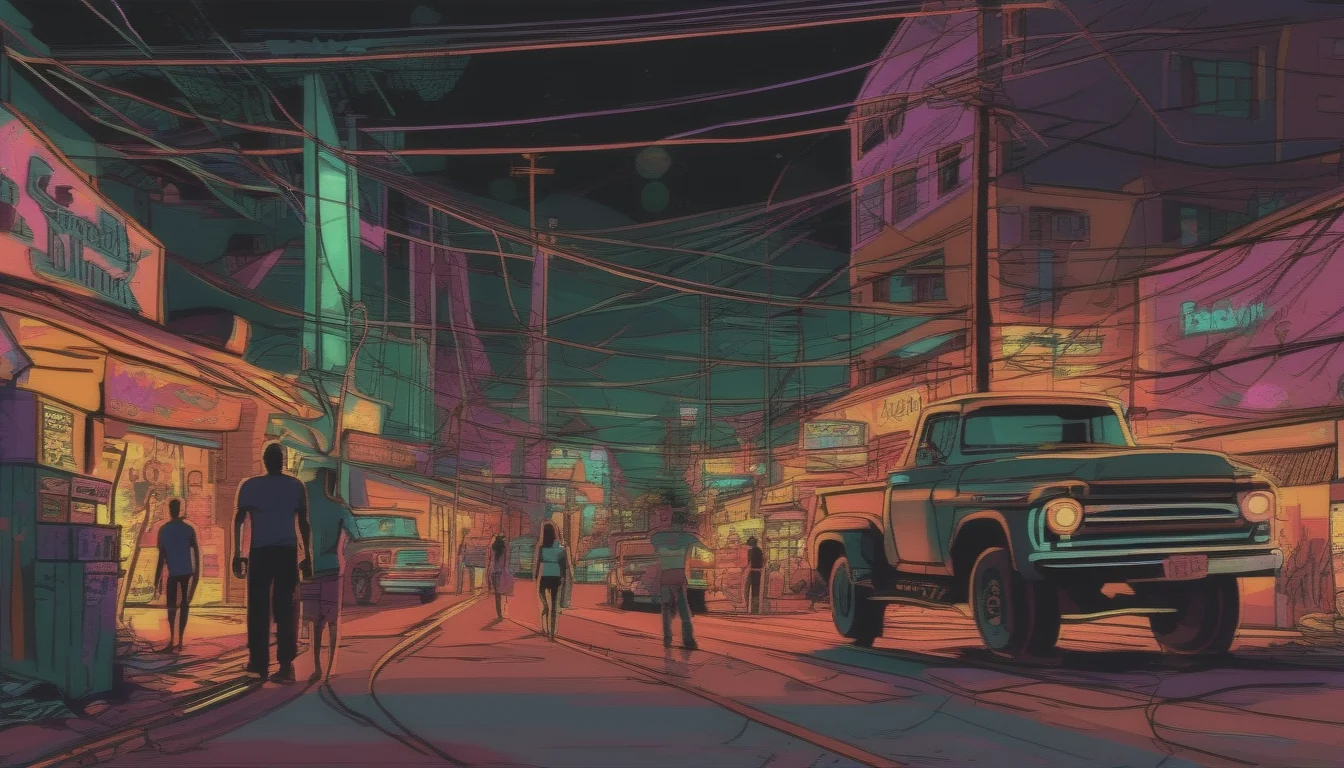
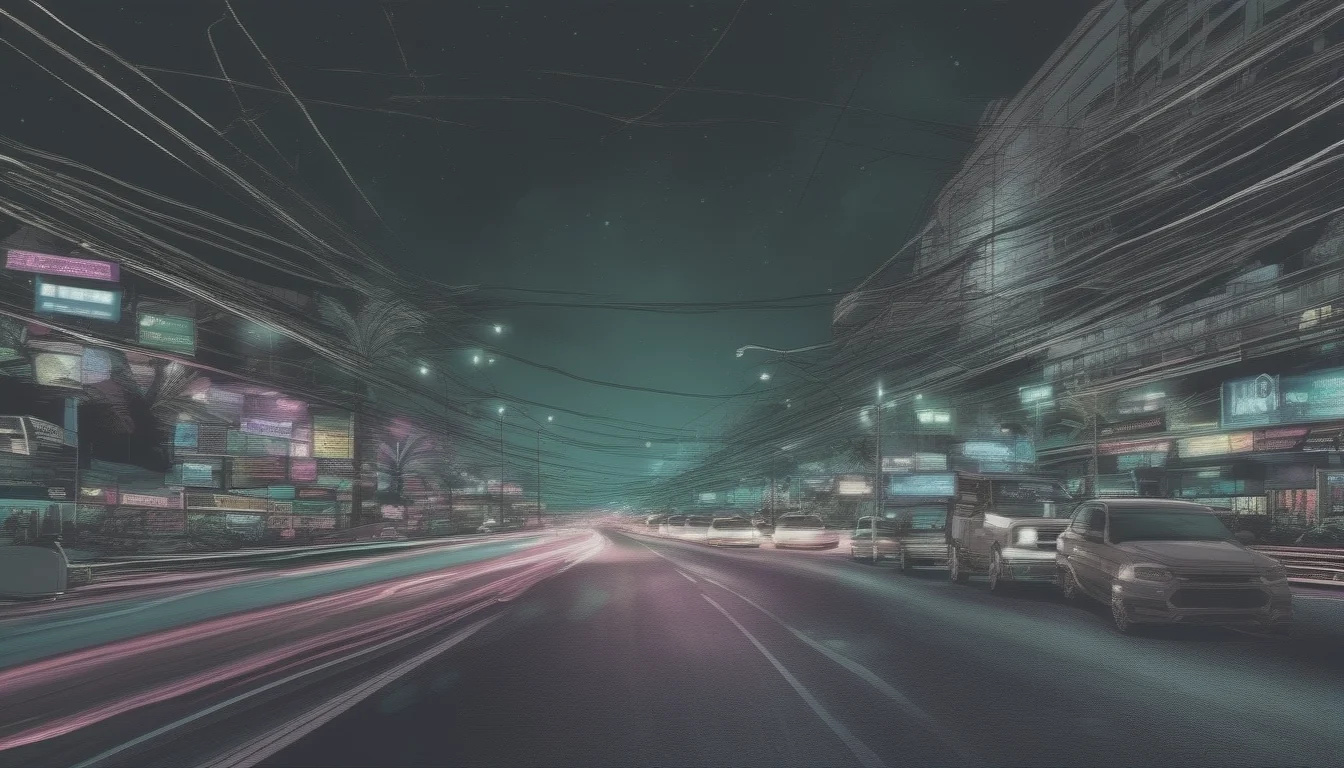
Five arteries stop pretending to be bar sois, and Wilf
Art for the two new Central Pattaya Road segments and Wilf at Mike's
Mall, plus re-renders of three roads that were wrong before today and
nobody had noticed.

The three re-renders are the point. pattaya_klang ("the big east-west
artery"), pattaya_tai ("the junction at the bottom of everything") and
sukhumvit_crossing ("eight lanes roaring… on foot this is a coin flip
with a truck") were all rendering as neon nightlife with pedestrians
strolling down the middle — the last one especially wrong, since the
room's whole mechanic is that crossing it on foot can kill you. Not
omissions: contradictions of the rooms' own prose.

Two of my own errors on the way, both worth the comments they now carry.
I passed populated=True for main roads, which injects "walking both
directions, backlit silhouettes" — people ON FOOT, the one thing a trunk
road has not got, and it kept Pattaya Tai a pedestrian market however the
head was worded. And MAIN_ROAD_NEGATIVE REPLACES the kind negative rather
than extending it, so it silently dropped the sunset guard and three
arteries came back at dusk against a style contract that says night.

Judged on prose, never the name: Thappraya's "Main Strip" is named like a
road and is genuinely a bar strip; Soi Buakhao's Klang end is named like
a soi and genuinely is one. Neither is flagged.

243/243 rooms, 365/365 cast.

diff --git a/web/js/portrait-thumbs.js b/web/js/portrait-thumbs.js
@@ -1,4 +1,4 @@
 // GENERATED by tools/gen-world-export.mjs — do not edit.
 // Which portraits have a 384px WebP thumbnail. term.js loads the thumb where
 // one exists; everything else keeps its PNG. Regenerate after adding art.
-const _THUMBS = new Set(["aek","aim","air","alisa","ampai","ampha","angela","ann","aof","aoi","aom","aoy","apple","arm","aum","aump","baimon","baitoey","bam","bank","barry","beam","bebe","bee","bella","belle","benz","bert","best","bill","bob","boom","boonsri","boua","bow","bpaeng","bpom","breakwater_jib","breakwater_kade","breakwater_mook","breakwater_mookda","bright","bua","bum","bunny","bussaba","cake","candy","care","cartoon","chaba","champa","cherry","chom","chompoo","chuck","colin","cream","da","daeng","danny","dao","dave","david","dear","dew","diamond","dieter","dj_beer","doghouse_bow","dokmai","doug","doyle","drew","duan","duang","duangjai","earn","eye","fah","fahsai","fai","fang","farida","fasai","fast_eddy","fergie","fern","fon","gaem","gaew","gam","gary","gavin","gerald","gib","gift","gig","gigi","gina","ging","glam","gof","golf","goong","grace","guitar","gyp","haad","helmut","hong","ice","ing","jah","jaja","jampa","jane","jeab","jeed","jenny","jiab","jib","jinda","jom","joon","josey","joy","ju","jum","jun","june","kade","kae","kaew","kai","kaimook","kanom","kanya","kat","keng","kesinee","kesorn","khing","kingfisher_kaew","kingfisher_noey","kingfisher_praew","kingfisher_somsri","kinnaree","kluay","kob","koi","kratae","kwan","kwang","kwanjai","kyle","lamai","lawan","lek","lin","lukkade","macca","mai","mala","malai","malee","malila","mam","manow","may","meaw","meen","mek","mem","mercedes","mikkel","mild","milin","milk","min","mind","mint","mon","mona","mook","mookda","mort","mot","muay","nam","namfon","namo","namphueng","namtan","namtip","namwan","nan","nangfah","napa","naree","near","nee","neil","neon_palm_bee","neon_palm_nittaya","neon_palm_noey","neon_palm_toey","nice","nid","nigel","nim","nina","nira","nit","nittaya","noey","noi","nok","nong","nont","nook","noon","noot","nott","nu","nuan","nubnab","nuch","numfon","nune","nut","oat","ohm","orm","orn","oy","pae","pancake","pang","pao","pat","pear","pen","pensri","petch","pete","peung","phil","pia","pim","ping","pinky","ple","ploen","ploy","poom","pop","powers","poy","prae","praew","praewa","pranee","preaw","priew","prik","proud","pui","pukky","pun","puu","randy","ratana","ratchada","ratree","ratsamee","reginald","rin","rob","roger","ron","rose","roy","rung","saeng","sai","saifon","sandra","sao","sara","sasi","sea_wall_duang","sea_wall_fon","sea_wall_gig","sea_wall_kwang","security","som","somchith","somjai","somo","somruedee","somsak","somsri","sopha","sroy","sudjai","sumalee","sunee","superman","taan","tabtim","tan","tangmo","tar","tarn","terry","the_bucket_fai","the_bucket_pang","the_bucket_ratchada","the_gecko_duan","the_gecko_ple","the_gecko_somjai","the_gecko_yok","the_terrace_fah","the_terrace_kade","the_terrace_namtip","the_terrace_wandee","thomas","tik","tim","toey","toi","ton","toom","toon","tui","tukky","tukta","tul","two_stools_jinda","two_stools_meaw","two_stools_orm","two_stools_ratree","view","wa","waan","waen","waew","wan","wandee","wanida","wanpen","wassana","wayne","wilai","wilawan","wimon","win","yada","yai","yaya","ying","yok","yui"]);
+const _THUMBS = new Set(["aek","aim","air","alisa","ampai","ampha","angela","ann","aof","aoi","aom","aoy","apple","arm","aum","aump","baimon","baitoey","bam","bank","barry","beam","bebe","bee","bella","belle","benz","bert","best","bill","bob","boom","boonsri","boua","bow","bpaeng","bpom","breakwater_jib","breakwater_kade","breakwater_mook","breakwater_mookda","bright","bua","bum","bunny","bussaba","cake","candy","care","cartoon","chaba","champa","cherry","chom","chompoo","chuck","colin","cream","da","daeng","danny","dao","dave","david","dear","dew","diamond","dieter","dj_beer","doghouse_bow","dokmai","doug","doyle","drew","duan","duang","duangjai","earn","eye","fah","fahsai","fai","fang","farida","fasai","fast_eddy","fergie","fern","fon","gaem","gaew","gam","gary","gavin","gerald","gib","gift","gig","gigi","gina","ging","glam","gof","golf","goong","grace","guitar","gyp","haad","helmut","hong","ice","ing","jah","jaja","jampa","jane","jeab","jeed","jenny","jiab","jib","jinda","jom","joon","josey","joy","ju","jum","jun","june","kade","kae","kaew","kai","kaimook","kanom","kanya","kat","keng","kesinee","kesorn","khing","kingfisher_kaew","kingfisher_noey","kingfisher_praew","kingfisher_somsri","kinnaree","kluay","kob","koi","kratae","kwan","kwang","kwanjai","kyle","lamai","lawan","lek","lin","lukkade","macca","mai","mala","malai","malee","malila","mam","manow","may","meaw","meen","mek","mem","mercedes","mikkel","mild","milin","milk","min","mind","mint","mon","mona","mook","mookda","mort","mot","muay","nam","namfon","namo","namphueng","namtan","namtip","namwan","nan","nangfah","napa","naree","near","nee","neil","neon_palm_bee","neon_palm_nittaya","neon_palm_noey","neon_palm_toey","nice","nid","nigel","nim","nina","nira","nit","nittaya","noey","noi","nok","nong","nont","nook","noon","noot","nott","nu","nuan","nubnab","nuch","numfon","nune","nut","oat","ohm","orm","orn","oy","pae","pancake","pang","pao","pat","pear","pen","pensri","petch","pete","peung","phil","pia","pim","ping","pinky","ple","ploen","ploy","poom","pop","powers","poy","prae","praew","praewa","pranee","preaw","priew","prik","proud","pui","pukky","pun","puu","randy","ratana","ratchada","ratree","ratsamee","reginald","rin","rob","roger","ron","rose","roy","rung","saeng","sai","saifon","sandra","sao","sara","sasi","sea_wall_duang","sea_wall_fon","sea_wall_gig","sea_wall_kwang","security","som","somchith","somjai","somo","somruedee","somsak","somsri","sopha","sroy","sudjai","sumalee","sunee","superman","taan","tabtim","tan","tangmo","tar","tarn","terry","the_bucket_fai","the_bucket_pang","the_bucket_ratchada","the_gecko_duan","the_gecko_ple","the_gecko_somjai","the_gecko_yok","the_terrace_fah","the_terrace_kade","the_terrace_namtip","the_terrace_wandee","thomas","tik","tim","toey","toi","ton","toom","toon","tui","tukky","tukta","tul","two_stools_jinda","two_stools_meaw","two_stools_orm","two_stools_ratree","view","wa","waan","waen","waew","wan","wandee","wanida","wanpen","wassana","wayne","wilai","wilawan","wilf","wimon","win","yada","yai","yaya","ying","yok","yui"]);
